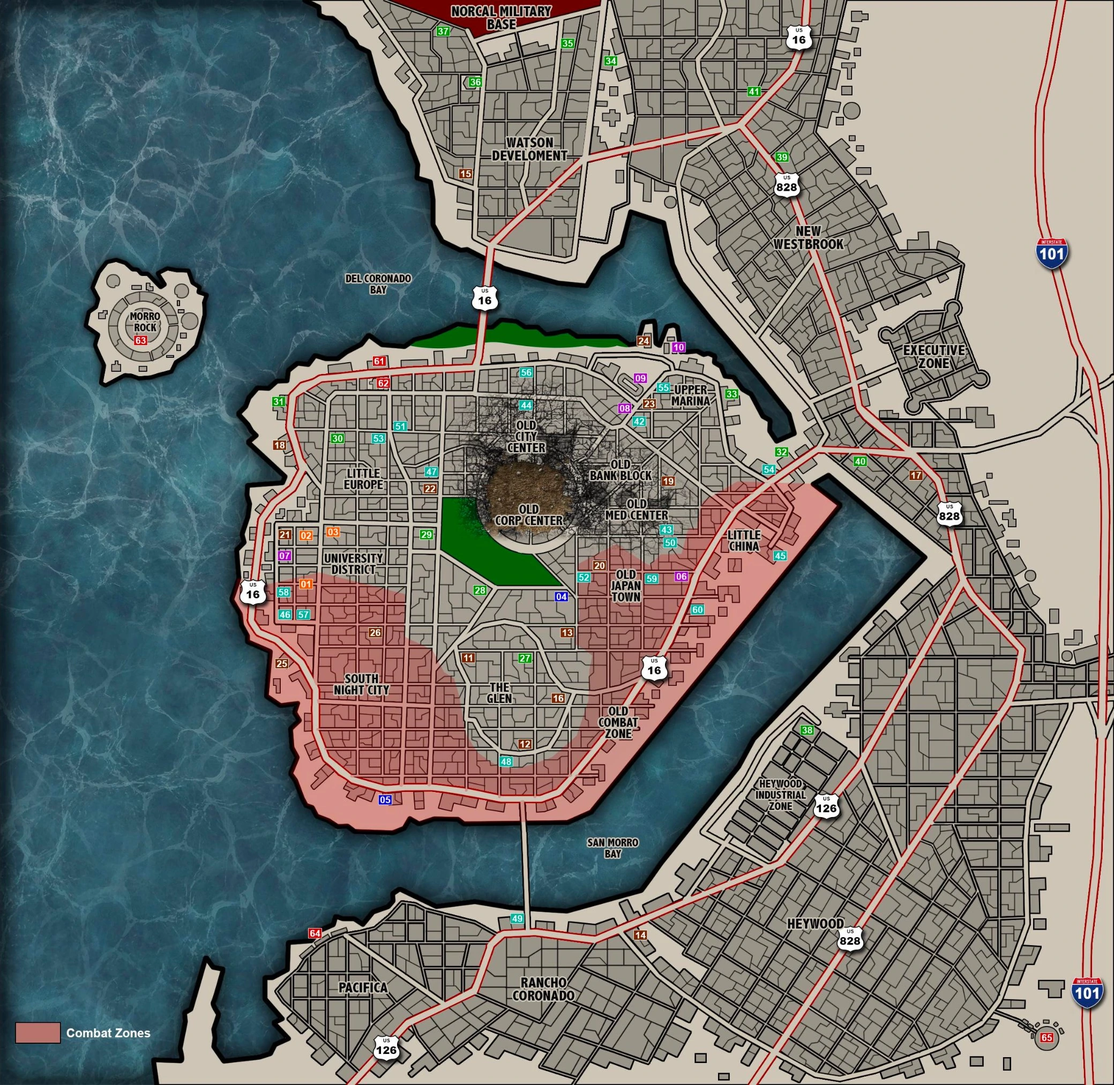
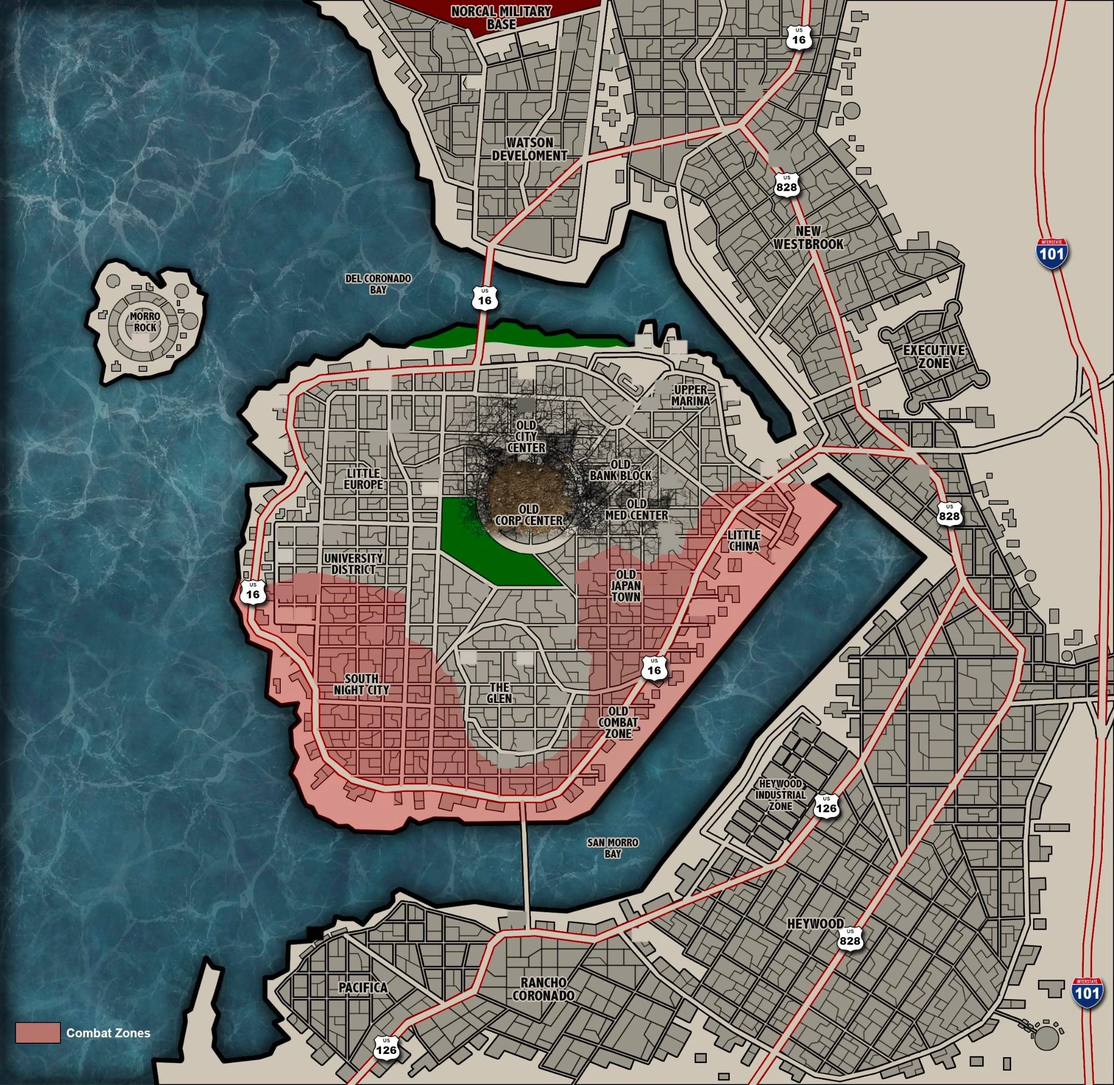
v0.13.0: community feedback fixes
Sharp zoom, clean map image, live route drawing, drag while routing,
custom points with category/art/lock, custom encounters, clear button,
world-time-first Simple Calendar, Agent on/off, removable markers.

Claude-Session: https://claude.ai/code/session_01WqA71akJjoCdCw9HBExx4r

diff --git a/styles/ncmap.css b/styles/ncmap.css
@@ -17,11 +17,11 @@
 #ncm .ncm-search i { color: var(--c); }
 #ncm .ncm-search input { flex: 1; min-width: 0; background: none; border: none; outline: none; color: var(--txt); font: 600 15px var(--font); height: 100%; box-shadow: none; }
 #ncm .ncm-modes { display: flex; gap: 6px; margin-left: auto; flex-wrap: wrap; }
-#ncm .ncm-modes button, #ncm .ncm-p-acts button, #ncm .ncm-q-head button:not(.ncm-p-x), #ncm .ncm-hint button, #ncm .ncm-qc-acts button {
+#ncm .ncm-seg button, #ncm .ncm-own button, #ncm .ncm-enc-own, #ncm .ncm-modes button, #ncm .ncm-p-acts button, #ncm .ncm-q-head button:not(.ncm-p-x), #ncm .ncm-hint button, #ncm .ncm-qc-acts button {
   display: inline-flex; align-items: center; gap: 7px; width: auto; height: 34px; padding: 0 14px; margin: 0; border: 1px solid var(--c); border-radius: 0; background: rgba(0,240,255,.06);
   color: var(--c); font-size: 13px; font-weight: 700; letter-spacing: .08em; text-transform: uppercase; line-height: 1;
   clip-path: polygon(8px 0, 100% 0, 100% calc(100% - 8px), calc(100% - 8px) 100%, 0 100%, 0 8px); transition: all .15s; }
-#ncm .ncm-modes button:hover, #ncm .ncm-p-acts button:hover, #ncm .ncm-qc-acts button:hover { background: var(--c); color: #001014; box-shadow: 0 0 16px var(--c); }
+#ncm .ncm-seg button:hover, #ncm .ncm-own button:hover, #ncm .ncm-enc-own:hover, #ncm .ncm-modes button:hover, #ncm .ncm-p-acts button:hover, #ncm .ncm-qc-acts button:hover { background: var(--c); color: #001014; box-shadow: 0 0 16px var(--c); }
 #ncm .ncm-modes button.on { background: var(--y); border-color: var(--y); color: #111; box-shadow: 0 0 18px rgba(252,238,10,.6); }
 #ncm button.danger { border-color: var(--m) !important; color: var(--m) !important; }
 #ncm button.danger:hover { background: var(--m) !important; color: #fff !important; }
@@ -39,7 +39,9 @@
 #ncm .ncm-viewport { position: relative; overflow: hidden; cursor: grab; background: radial-gradient(ellipse at center, #0d1420, #05050a 70%); touch-action: none; }
 #ncm .ncm-viewport.ncm-grab { cursor: grabbing; }
 #ncm .ncm-viewport.ncm-pick { cursor: crosshair; }
-#ncm .ncm-world { position: absolute; left: 0; top: 0; transform-origin: 0 0; will-change: transform; backface-visibility: hidden; }
+#ncm .ncm-world { position: absolute; left: 0; top: 0; transform-origin: 0 0; }
+/* слой «замораживается» только пока карту двигают — иначе на сильном зуме текст остаётся мыльным */
+#ncm.ncm-moving .ncm-world, #ncm .ncm-world.ncm-anim { will-change: transform; }
 #ncm.ncm-moving .ncm-streets, #ncm.ncm-moving .ncm-name, #ncm.ncm-moving .ncm-dist { visibility: hidden; }
 #ncm.ncm-moving .ncm-pin { pointer-events: none; }
 #ncm .ncm-world.ncm-anim { transition: transform .45s cubic-bezier(.2,.8,.3,1); }
@@ -436,3 +438,31 @@
 #ncm .ncm-mlock { display: grid; grid-template-columns: 28px 1fr; column-gap: 8px; padding: 12px; margin: 6px 0 10px; border: 1px dashed rgba(155, 107, 255, .6); background: rgba(20, 0, 40, .4); }
 #ncm .ncm-mlock i { grid-row: span 2; font-size: 20px; color: #9b6bff; align-self: center; }
 #ncm .ncm-mlock span { color: var(--mut); font-size: 13px; }
+
+/* ---- v0.13: читаемость на зуме, маршрут, свои точки и встречи ---- */
+#ncm.ncm-close .ncm-pin .ncm-name { opacity: 1; transform: none; }
+#ncm.ncm-close .ncm-pin .ncm-name { font-size: 12px; }
+#ncm .ncm-rt { stroke-width: 7; filter: drop-shadow(0 0 3px rgba(0,0,0,.9)); }
+#ncm .ncm-rt-glow { fill: none; stroke: rgba(5,5,12,.85); stroke-width: 13; vector-effect: non-scaling-stroke; stroke-linecap: round; stroke-linejoin: round; }
+#ncm .ncm-rt-shared-glow { stroke: rgba(5,5,12,.6); }
+#ncm .ncm-rt-rubber { stroke: var(--y); stroke-width: 3; stroke-dasharray: 4 6; vector-effect: non-scaling-stroke; opacity: .85; pointer-events: none; }
+#ncm .ncm-enc-row { display: flex; gap: 6px; }
+#ncm .ncm-enc-row .ncm-enc-roll { flex: 1; }
+#ncm .ncm-enc-own { flex: 0 0 auto; width: 40px; }
+#ncm .ncm-seg { display: flex; gap: 6px; margin: 8px 0 12px; }
+#ncm .ncm-seg button { flex: 1; }
+#ncm .ncm-seg button.on { background: var(--y); color: #000; }
+#ncm .ncm-own { display: flex; align-items: center; gap: 6px; padding: 8px 0; border-bottom: 1px solid rgba(255,255,255,.08); }
+#ncm .ncm-own > div { flex: 1; display: flex; flex-direction: column; min-width: 0; }
+#ncm .ncm-own small { color: #8a90a8; font-size: 11px; }
+#ncm .ncm-own button { flex: 0 0 auto; width: 34px; }
+.ncm-dialog .ncm-fp { display: flex; gap: 6px; }
+.ncm-dialog .ncm-fp input { flex: 1; }
+.ncm-dialog .ncm-fp button { flex: 0 0 36px; }
+.ncm-dialog .ncm-checks { display: flex; flex-wrap: wrap; gap: 4px 12px; margin: 6px 0; }
+.ncm-dialog .ncm-checks > span { width: 100%; font-size: 12px; opacity: .8; }
+#ncm .ncm-enc-own { height: 38px; margin: 8px 0; padding: 0; justify-content: center; --c: var(--m); }
+#ncm .ncm-seg button, #ncm .ncm-own button { justify-content: center; }
+#ncm .ncm-own button { padding: 0; }
+#ncm .ncm-seg button.on { background: var(--y); border-color: var(--y); color: #111; }
+#ncm .ncm-seg button { height: auto; min-height: 34px; padding: 6px 8px; font-size: 11px; line-height: 1.2; text-align: center; }

diff --git a/scripts/lang/en.js b/scripts/lang/en.js
@@ -1063,5 +1063,41 @@ export default {
  "Южный залив. Мост к Ранчо Коронадо.": "The southern bay. A bridge to Rancho Coronado.",
  "«": "“",
  "»": "”",
- "№": "#"
+ "№": "#",
+ "»: григорианские месяцы и дни недели, праздники года. Часы карты потом идут по времени мира.": "”: Gregorian months and weekdays, plus the year's holidays. After that the map clock follows the world time.",
+ "Какое время оставить": "Which time to keep",
+ "Время мира — карта подстроится": "World time — the map follows it",
+ "Время карты — мир перейдёт на него": "Map time — the world switches to it",
+ "Маршрут: кликайте по карте или точкам — каждый клик добавляет поворот. Тяните карту мышью, чтобы сдвинуть. Правый клик — убрать последнюю точку.": "Route: click the map or places — each click adds a turn. Drag to move the map. Right-click removes the last point.",
+ "Убрать метку": "Remove marker",
+ "Снять защиту": "Unlock",
+ "Защитить от удаления": "Protect from deletion",
+ "Случайные встречи": "Random encounters",
+ "Свои встречи": "Custom encounters",
+ "Свои встречи выпадают там, где подходят угроза района и время суток. {g} в тексте — банда района.": "Custom encounters come up where the district threat and the time of day match. {g} in the text becomes the local gang.",
+ "Вместе с книжными": "Mixed with the book",
+ "Только свои": "Custom only",
+ "день и ночь": "day and night",
+ "Удалить": "Delete",
+ "Своих встреч пока нет.": "No custom encounters yet.",
+ "Добавить встречу": "Add encounter",
+ "Новая встреча": "New encounter",
+ "Например: Облава NCPD": "E.g.: NCPD raid",
+ "Что происходит": "What happens",
+ "Противники / статы": "Enemies / stats",
+ "Бустеры ×4": "Boosters ×4",
+ "Повороты — по одному в строке, выпадет случайный": "Twists — one per line, a random one is picked",
+ "Где (ничего не отмечено — везде)": "Where (nothing checked — everywhere)",
+ "Когда": "When",
+ "днём": "by day",
+ "ночью": "at night",
+ "Удалить точку «": "Delete “",
+ "»? Это не отменить.": "”? This can't be undone.",
+ "Свои встречи: добавить и править": "Custom encounters: add and edit",
+ "своя встреча": "custom encounter",
+ "Убрать встречи из окна": "Clear encounters from the panel",
+ "Очистить": "Clear",
+ "Категория": "Category",
+ "Картинка для досье": "Dossier image",
+ "Выбрать файл": "Choose file"
 };

diff --git a/scripts/encounters.js b/scripts/encounters.js
@@ -65,8 +65,19 @@ export function threatOf(dist, zone) {
 }
 export const THREAT_RU = { corp: "Корпоративная", moderate: "Умеренная", suburbs: "Переполненные пригороды", combat: "Боевая зона", hot: "Зона Поражения" };
 
-/** Бросок встречи. night — ночь. */
-export function rollEncounter({ distId, threat, night }) {
+/** Своя встреча мастера: подходит ли под угрозу и время суток. */
+const fitsOwn = (e, threat, night) => (!e.threats?.length || e.threats.includes(threat)) && (!e.time || e.time === "any" || (e.time === "night") === !!night);
+
+/** Бросок встречи. night — ночь. custom — свои встречи мастера, mode: "mix" — вперемешку с книжными, "own" — только свои. */
+export function rollEncounter({ distId, threat, night, custom = [], mode = "mix" }) {
+  const own = custom.filter(e => e?.title && fitsOwn(e, threat, night));
+  const base = threat === "hot" ? 6 : 10;
+  if (own.length && (mode === "own" || Math.random() < own.length / (own.length + base))) {
+    const e = pick(own), g = gangOf(distId), tw = (e.twists ?? []).map(x => String(x).trim()).filter(Boolean);
+    const sub = tw.length ? 1 + Math.floor(Math.random() * tw.length) : null;
+    const fill = (s) => String(s ?? "").replaceAll("{g}", T(g));
+    return { own: true, roll: null, sub, mooks: [], title: e.title, text: fill(e.text), stats: e.stats || "—", twist: sub ? fill(tw[sub - 1]) : "", gang: T(g), night, threat };
+  }
   let roll, list, entry, idx;
   if (threat === "hot") { roll = d(6); list = HOT; idx = roll - 1; }
   else {

diff --git a/docs/CHANGELOG.md b/docs/CHANGELOG.md
@@ -1,3 +1,29 @@
+## 0.13.0 — community feedback
+
+- Sharp text at any zoom; place names show without hovering when you zoom in close.
+- The map image no longer has numbered boxes baked in, so hiding a category hides its boxes too.
+- Routes draw as you build them: the start point appears at once, a dotted line follows the cursor, the line is bolder.
+- Drag the map with any mouse button while plotting a route. Right-click without dragging removes the last point.
+- Custom points: category (filters with the rest), description, dossier image, protection from deletion, delete confirmation.
+- Custom encounters: add your own to the tables by threat and time of day, mixed with the book or on their own.
+- A Clear button for rolled encounters.
+- Simple Calendar setup now keeps the world time by default; the map follows the world. You can still choose the map time.
+- New setting **Agent phone**: turn it off and the Agent button, Shift+A and the scene control are gone.
+- Remove the “We are here” and “I am here” markers from the marker mode bar.
+- Clicking a place after building a route opens the place, not the route.
+
+## 0.13.0 — по отзывам сообщества
+
+- Чёткий текст на любом зуме, на сильном приближении названия мест видны без наведения.
+- Номерные плашки убраны с самой картинки: выключил категорию — пропали и её номера.
+- Маршрут рисуется сразу, пока прокладываешь; пунктир тянется за курсором.
+- В режиме маршрута карту можно таскать любой кнопкой мыши, правый клик без протяжки убирает последнюю точку.
+- Свои точки: категория, описание, картинка для досье, защита от удаления, подтверждение удаления.
+- Свои встречи по угрозе и времени суток, вместе с книжными или только свои. Кнопка «Очистить» для встреч.
+- Simple Calendar: по умолчанию главное время мира, карта подстраивается.
+- Настройка «Телефон «Агент»»: выключил — кнопки и Shift+A нет.
+- Метки «Мы здесь» и «Я здесь» можно убрать.
+
 ## 0.12.1
 
 - Location art for all 65 places is now included (dossiers work out of the box).
